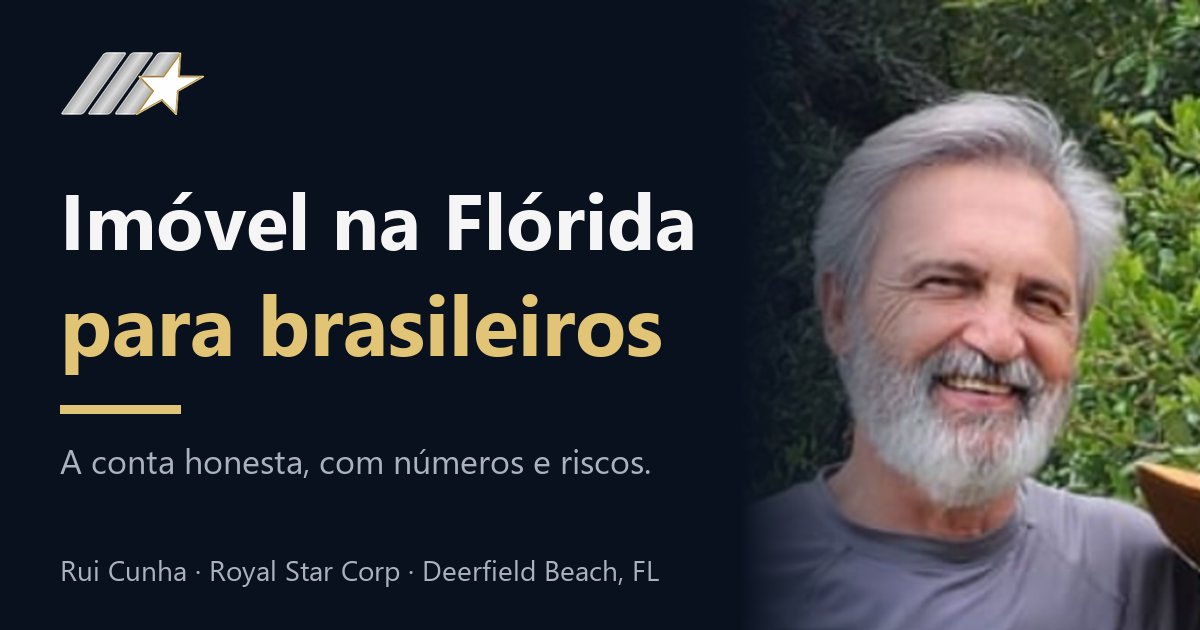
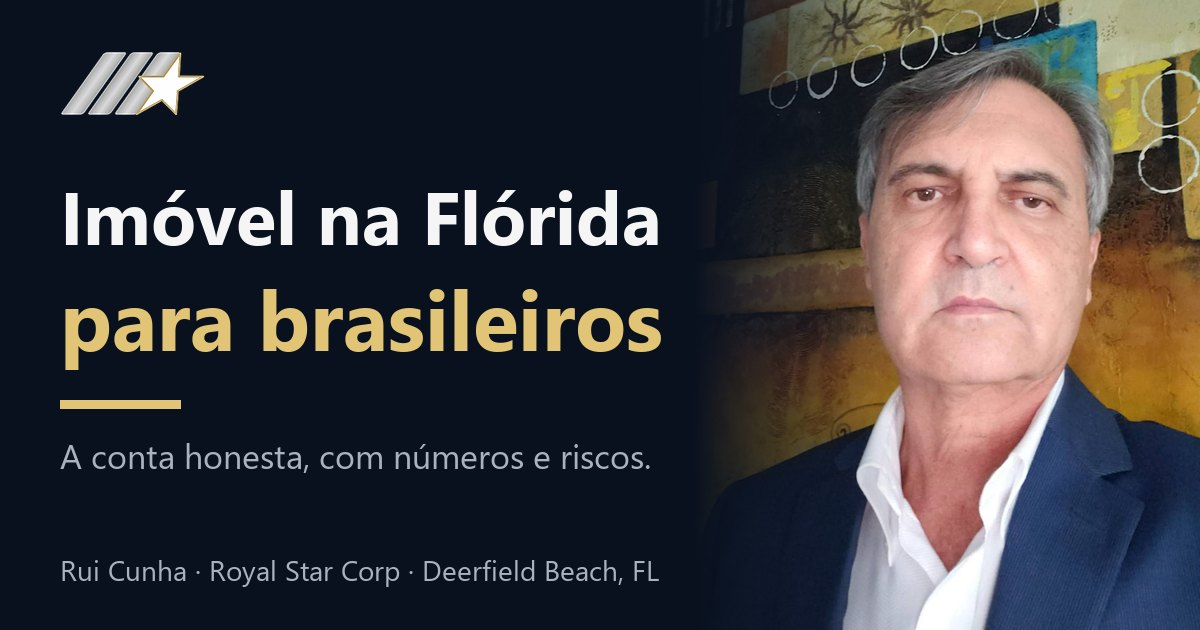
New professional photo of Rui; click-to-call link in footer

diff --git a/index.html b/index.html
@@ -184,7 +184,7 @@ footer .legal{font-size:.82rem;color:#aeb6c4;margin-top:16px}
         <p class="under-btn">Resposta em português. Sem compromisso.</p>
       </div>
       <figure style="margin:0">
-        <img class="rui" src="rui.webp" width="250" height="250" alt="Rui Cunha, corretor de imóveis em Deerfield Beach, Flórida">
+        <img class="rui" src="rui.webp" width="600" height="600" alt="Rui Cunha, corretor de imóveis em Deerfield Beach, Flórida">
         <figcaption class="photo-cap">Rui Cunha — corretor de imóveis, Royal Star Corp</figcaption>
       </figure>
     </div>
@@ -318,7 +318,7 @@ footer .legal{font-size:.82rem;color:#aeb6c4;margin-top:16px}
 <footer>
   <div class="wrap">
     <p><strong>Royal Star Corp — Deerfield Beach, FL</strong><br>
-      WhatsApp: <a class="js-wa" data-loc="footer" href="https://wa.me/19548508640"><span id="wa-display">+1 (954) 850-8640</span></a><br>
+      WhatsApp: <a class="js-wa" data-loc="footer" href="https://wa.me/19548508640"><span id="wa-display">+1 (954) 850-8640</span></a> · Ligar: <a href="tel:+19548508640">+1 (954) 850-8640</a><br>
       <!-- Florida Rule 61J2-10.025: the licensed brokerage name must sit next to the contact info. Confirm the exact name on DBPR. -->
       Rui Cunha, corretor de imóveis licenciado na Flórida (EUA)<br>
       3751 NW 9th Ave, Unit 4 · Deerfield Beach, FL 33064, EUA</p>
